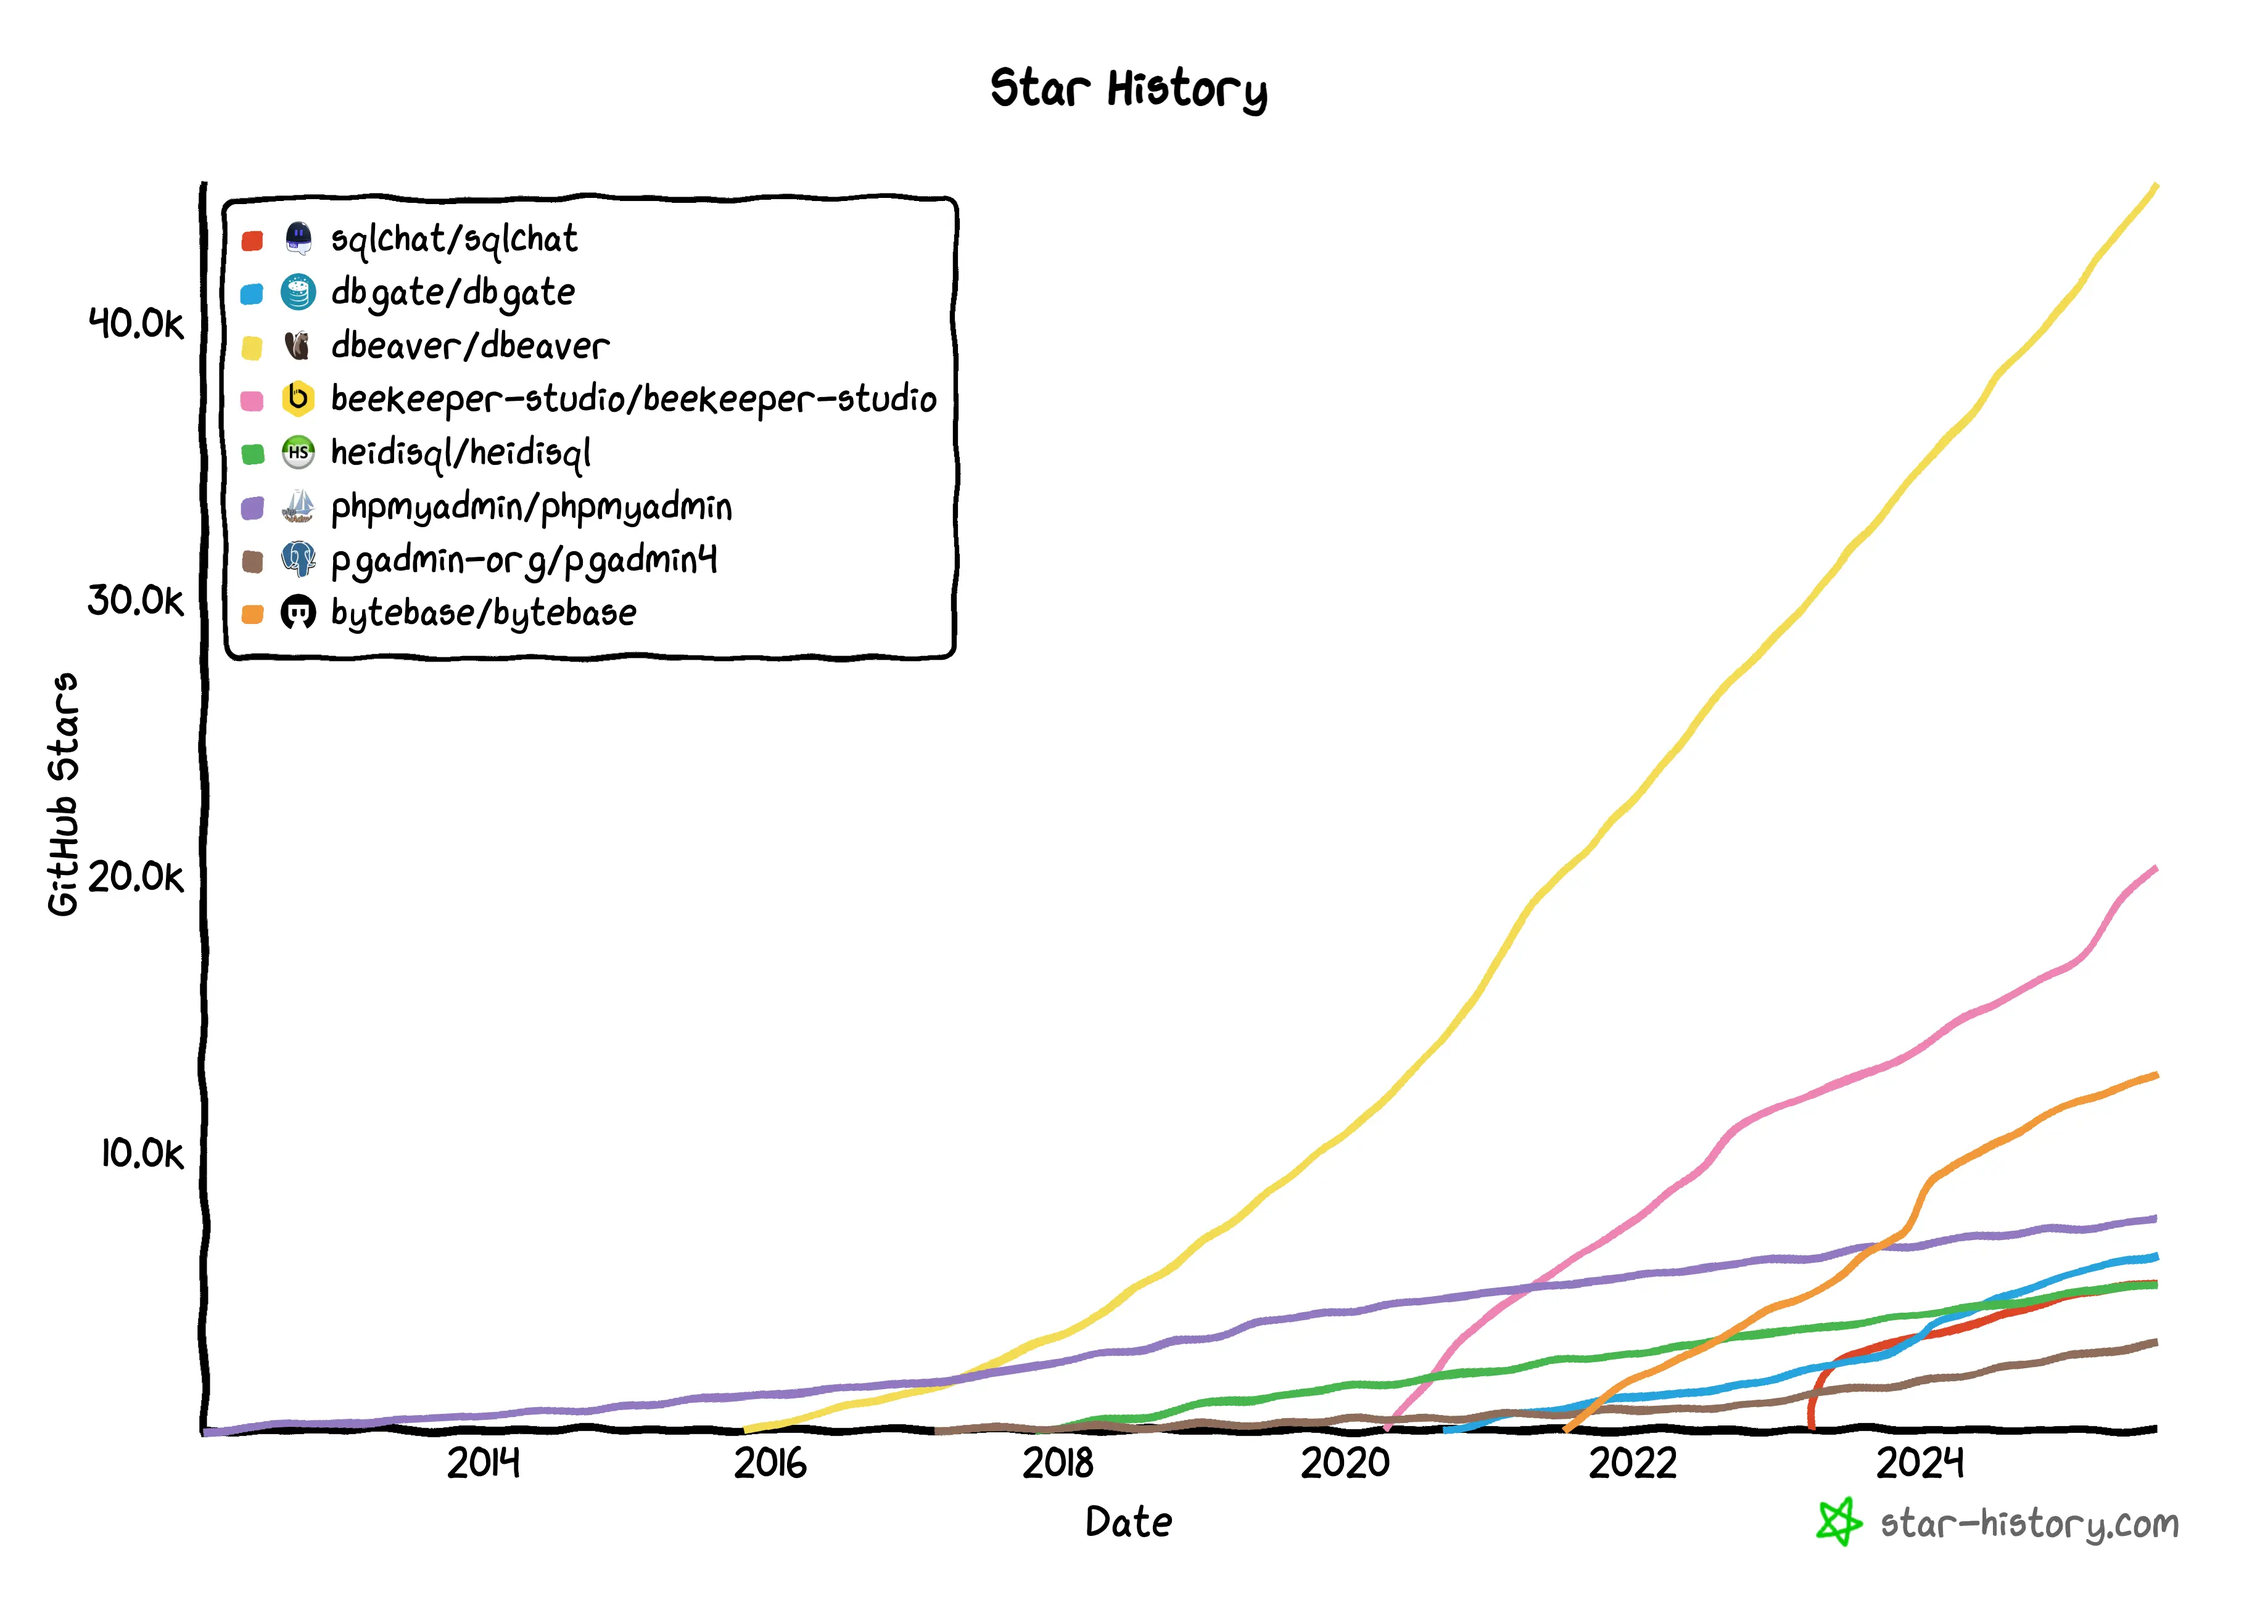
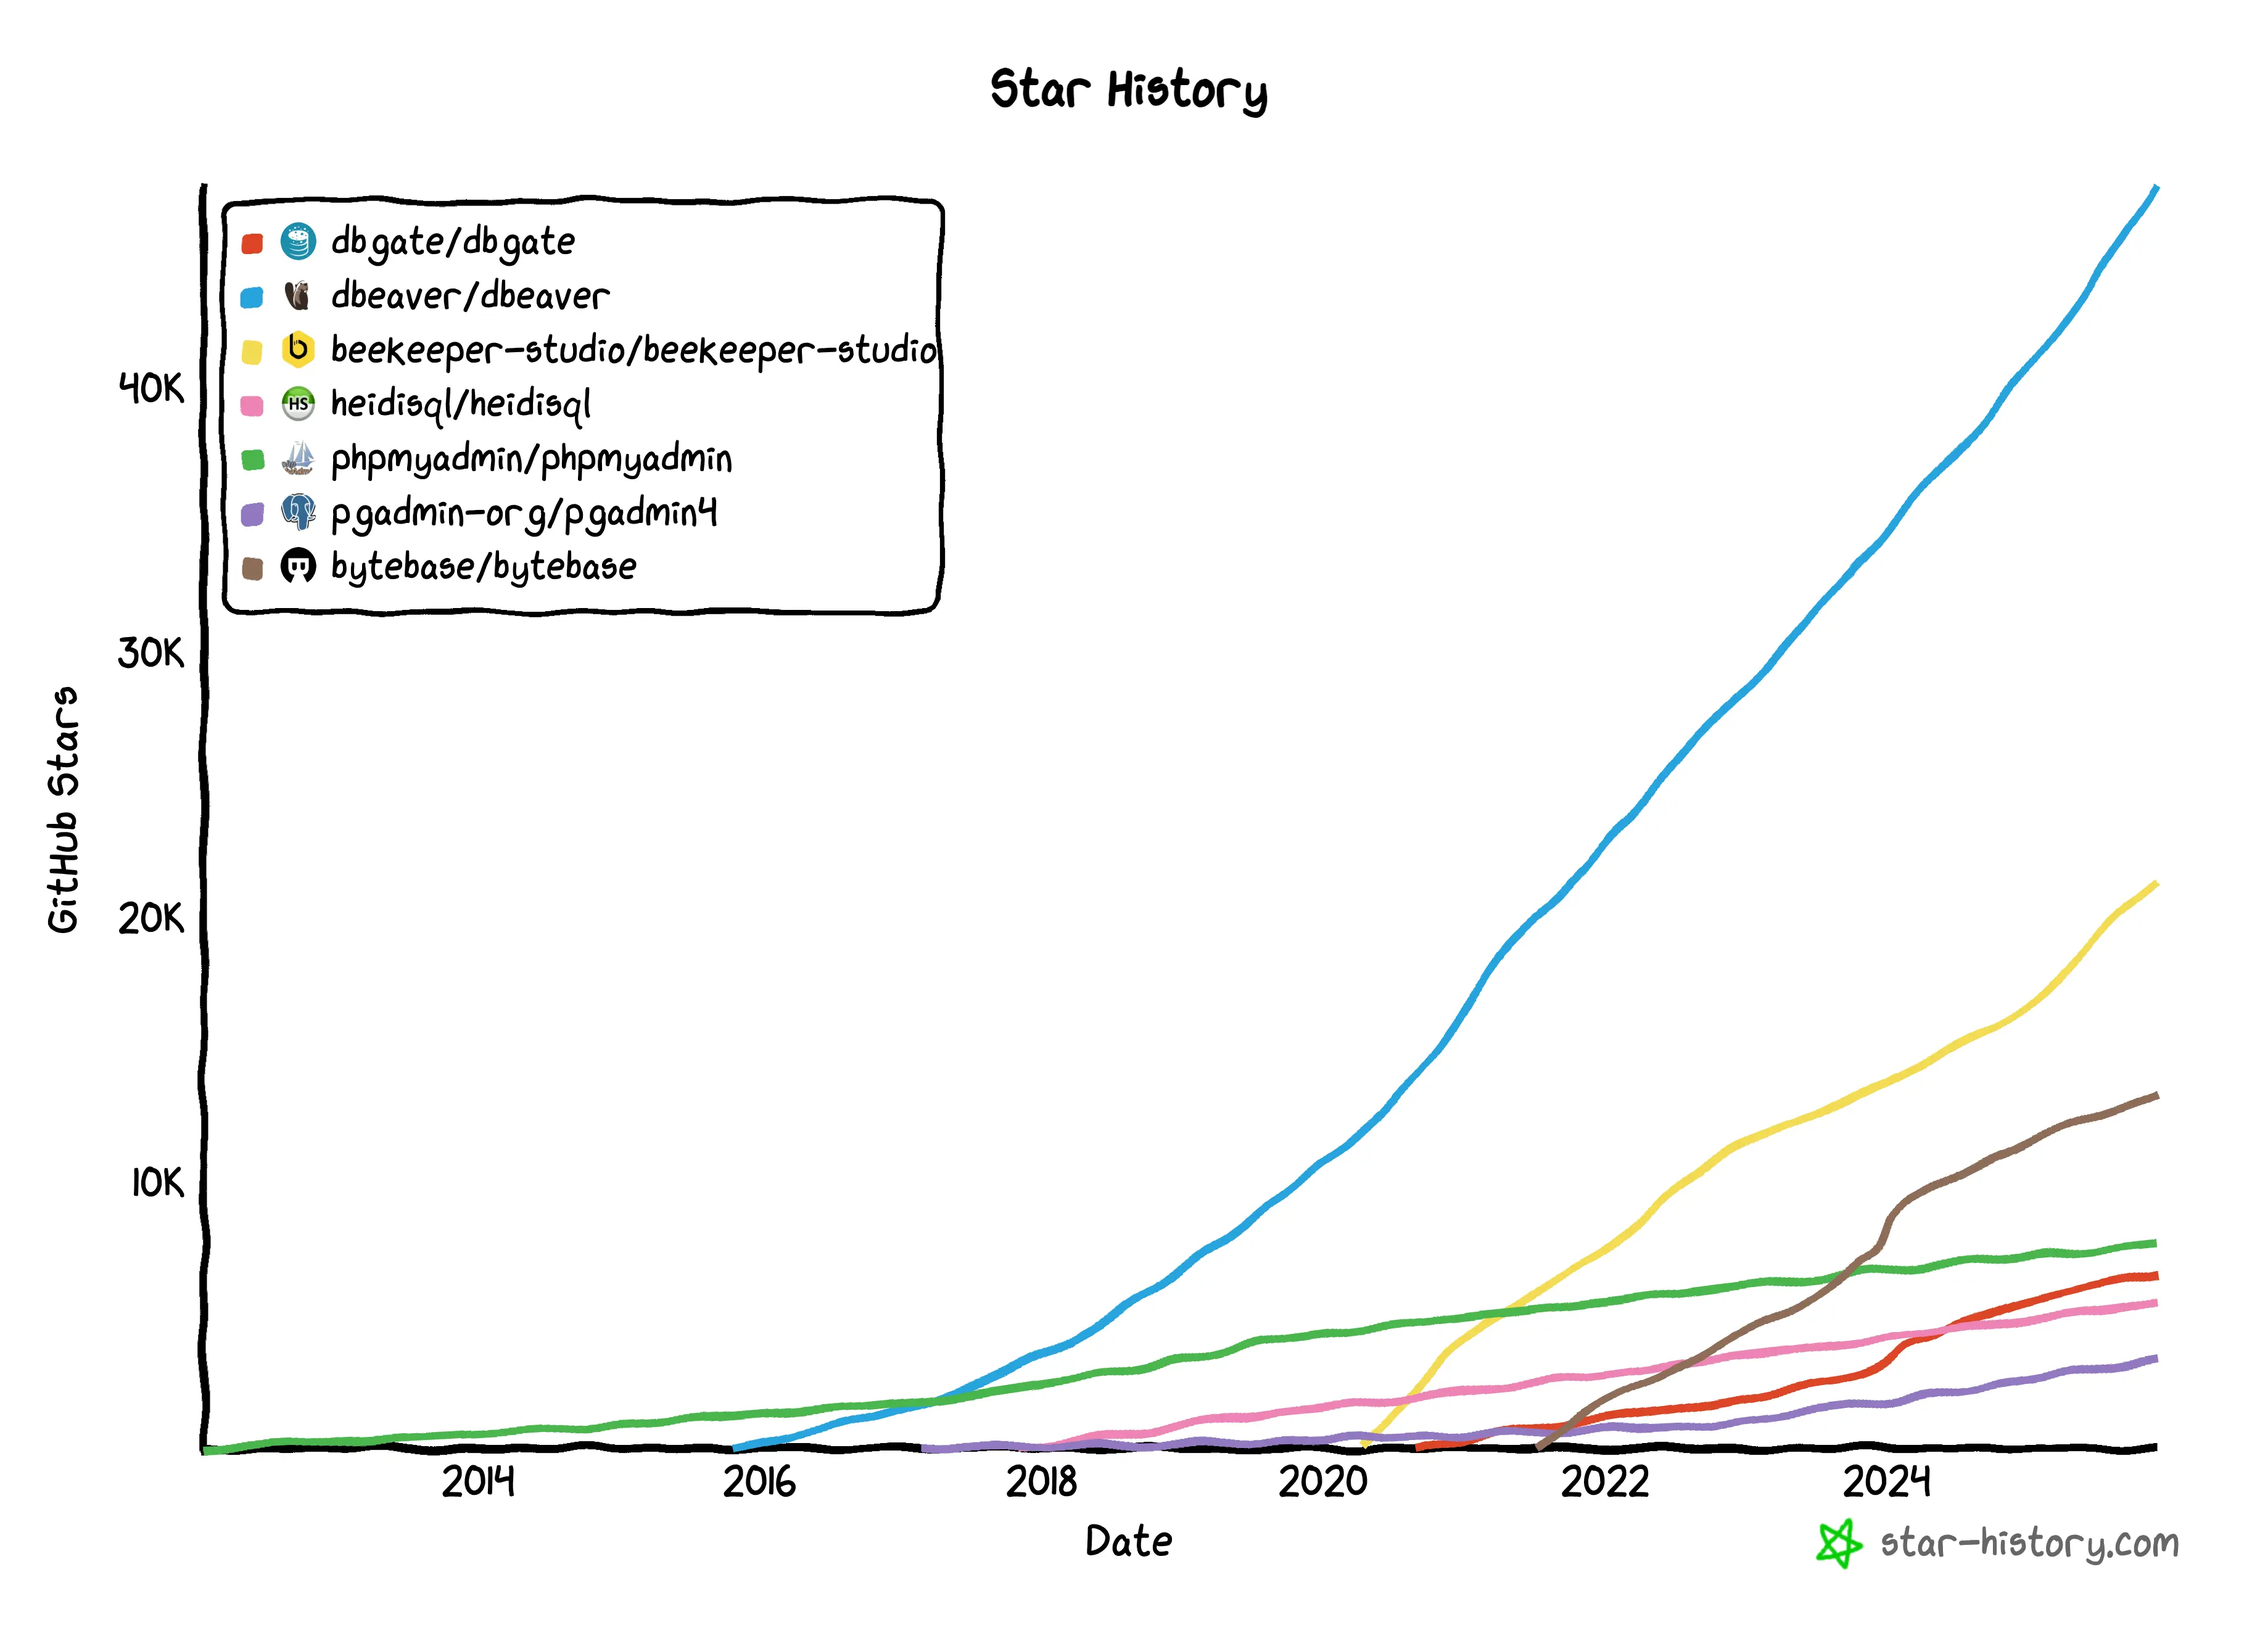
blog: update sql client post

diff --git a/content/blog/top-open-source-sql-clients.md b/content/blog/top-open-source-sql-clients.md
@@ -1,11 +1,11 @@
 ---
-title: Top 8 Free, Open Source SQL Clients to Make Database Management Easier 2025
+title: Top 7 Free, Open Source SQL Clients to Make Database Management Easier 2025
 author: Mila
 updated_at: 2025/08/27 10:00:00
 feature_image: /content/blog/top-open-source-sql-clients/banner.webp
 tags: Industry
 featured: true
-description: SQL clients make it safer and easier to manage databases. In this post, we are taking a look at open source SQL client options for you to try in 2025.
+description: A comprehensive guide to the top free and open-source SQL clients in 2025, including DBeaver, Beekeeper Studio, DbGate, HeidiSQL, phpMyAdmin, pgAdmin, and Bytebase. Compare features, database support, and capabilities to find the best SQL client for your needs.
 ---
 
 <HintBlock type="info">
@@ -14,24 +14,24 @@ This post is maintained by Bytebase, an open-source database DevSecOps tool. We 
 
 </HintBlock>
 
-| Update History | Comment                                        |
-| -------------- | ---------------------------------------------- |
-| 2023/04/28     | Initial version.                               |
-| 2024/06/30     | Add reference link.                            |
-| 2025/03/03     | Remove Sqlectron as it's no longer maintained. |
-| 2025/08/27     | Update GitHub star growth and wording.         |
+| Update History | Comment                                                   |
+| -------------- | --------------------------------------------------------- |
+| 2023/04/28     | Initial version.                                          |
+| 2024/06/30     | Add reference link.                                       |
+| 2025/03/03     | Remove Sqlectron as it's no longer maintained.            |
+| 2025/08/27     | Update GitHub star growth and wording.                    |
+| 2025/12/05     | Remove SQL Chat as it's covered by the text-to-sql topic. |
 
-In the past, the only way to access or modify a database was through the command line, which was not only not intuitive, but also prone to errors that could lead to major problems. So people began to develop tools with a graphical user interface (GUI), and that became what we now know as SQL clients, which are basically front-end applications for database services. In this post, we are taking a look at some open source SQL client options for you to try.
+This is a series articles about SQL Clients / SQL Editors:
 
-[![star-history](/content/blog/top-open-source-sql-clients/star-history.webp)](https://star-history.com/#sqlchat/sqlchat&dbgate/dbgate&dbeaver/dbeaver&beekeeper-studio/beekeeper-studio&heidisql/heidisql&phpmyadmin/phpmyadmin&pgadmin-org/pgadmin4&bytebase/bytebase&Date)
+1. Open Source SQL Clients (this one)
+1. [Text-to-SQL Query Tools](/blog/top-text-to-sql-query-tools)
 
-## SQL Chat
+---
 
-[SQL Chat](https://github.com/sqlchat/sqlchat) is a young player (released in March, 2023), propelling SQL clients from the traditional GUI-based to the Chat-based stage: it's powered by ChatGPT to write and polish SQL for you. Databases supported now include MySQL, PostgreSQL and MSSQL. You can access it directly via [sqlchat.ai](https://www.sqlchat.ai/) or deploy it via Docker.
+When database systems debuted about 40 years ago, the only way to access or modify a database was through the command line, which was not only unintuitive but also prone to errors that could lead to major problems. As a result, people began developing tools with graphical user interfaces (GUIs), which became what we now know as SQL clients—essentially front-end applications for database services. In this post, we are taking a look at some open-source SQL client options for you to try.
 
-SQL Chat launched on [Product Hunt](https://www.producthunt.com/posts/sql-chat-2) in April 2023, and it gained so much attention that there's now a limit to the free service.
-
-![sqlchat](/content/blog/top-open-source-sql-clients/sqlchat.webp)
+[![star-history](/content/blog/top-open-source-sql-clients/star-history.webp)](https://star-history.com/#dbgate/dbgate&dbeaver/dbeaver&beekeeper-studio/beekeeper-studio&heidisql/heidisql&phpmyadmin/phpmyadmin&pgadmin-org/pgadmin4&bytebase/bytebase&Date)
 
 ## DBeaver
 
@@ -83,11 +83,11 @@ After taking a look at [the history of pgAdmin](https://www.enterprisedb.com/blo
 
 Aforementioned tools are all client-side SQL editors for individual use. What if you want a SQL client for team use? The client-side SQL editors would not be sufficient because for team use, it would require:
 
-- **Centralized access control**. Ideally you don't want to give away production database credentials to developers.
+- **Centralized access control**. Ideally you don't want to give away production database credentials to developers by default and only allow them to requst on demand.
 - **Audit logging**. You want to capture all operations performed on the database.
 - **Request and review workflow**. You want users to go through a ticketing process to request the access rights.
 - **Data masking**. You may want to prevent users seeing sensitive data.
-- **Policy as Code (GitOps)**. Permission control and masking policies can be [codified](https://github.com/bytebase/example-database-security) and integrated with your existing DevOps pipeline.
+- **Policy as Code (GitOps)**. Permission control and masking policies can be codified with Terraform and integrated with your existing DevOps pipeline.
 
 All above requirements call for a server-side solution. And that's what [Bytebase SQL Editor](/sql-editor) provides.
 

diff --git a/content/blog/top-text-to-sql-query-tools.md b/content/blog/top-text-to-sql-query-tools.md
@@ -9,7 +9,7 @@ description: 'An overview to the most popular text-to-SQL AI tools in 2025, incl
 
 <HintBlock type="info">
 
-This post is maintained by Bytebase, an open-source database DevSecOps tool. We update the post gradually.
+This post is maintained by Bytebase, an open-source database DevSecOps tool. We update the post every year.
 
 </HintBlock>
 
@@ -18,6 +18,13 @@ This post is maintained by Bytebase, an open-source database DevSecOps tool. We 
 | 2024/09/11     | Initial version.                                                    |
 | 2025/05/27     | 2025 Update.                                                        |
 | 2025/12/04     | Add TablePlus and DBHub. Remove Outerbase (acquired by Cloudflare). |
+
+This is a series articles about SQL Clients / SQL Editors:
+
+1. [Open Source SQL Clients](/blog/top-open-source-sql-clients)
+1. Text-to-SQL Query Tools (this one)
+
+---
 
 If you work with databases, SQL AI tools can significantly improve your productivity and efficiency. They help generate SQL commands automatically from natural language input and optimize query performance as functional and starter-friendly tool.
 
